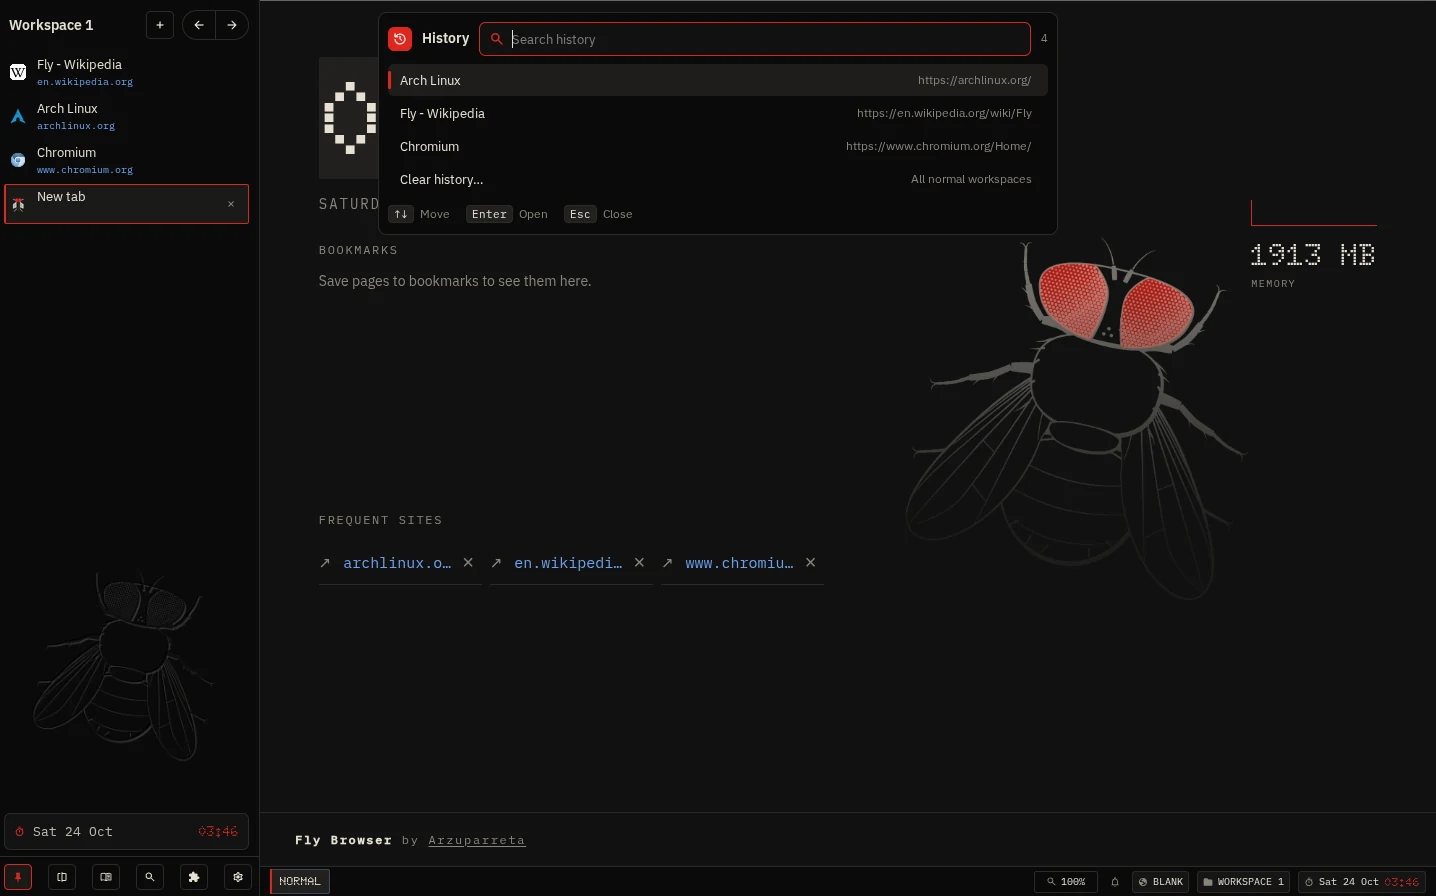
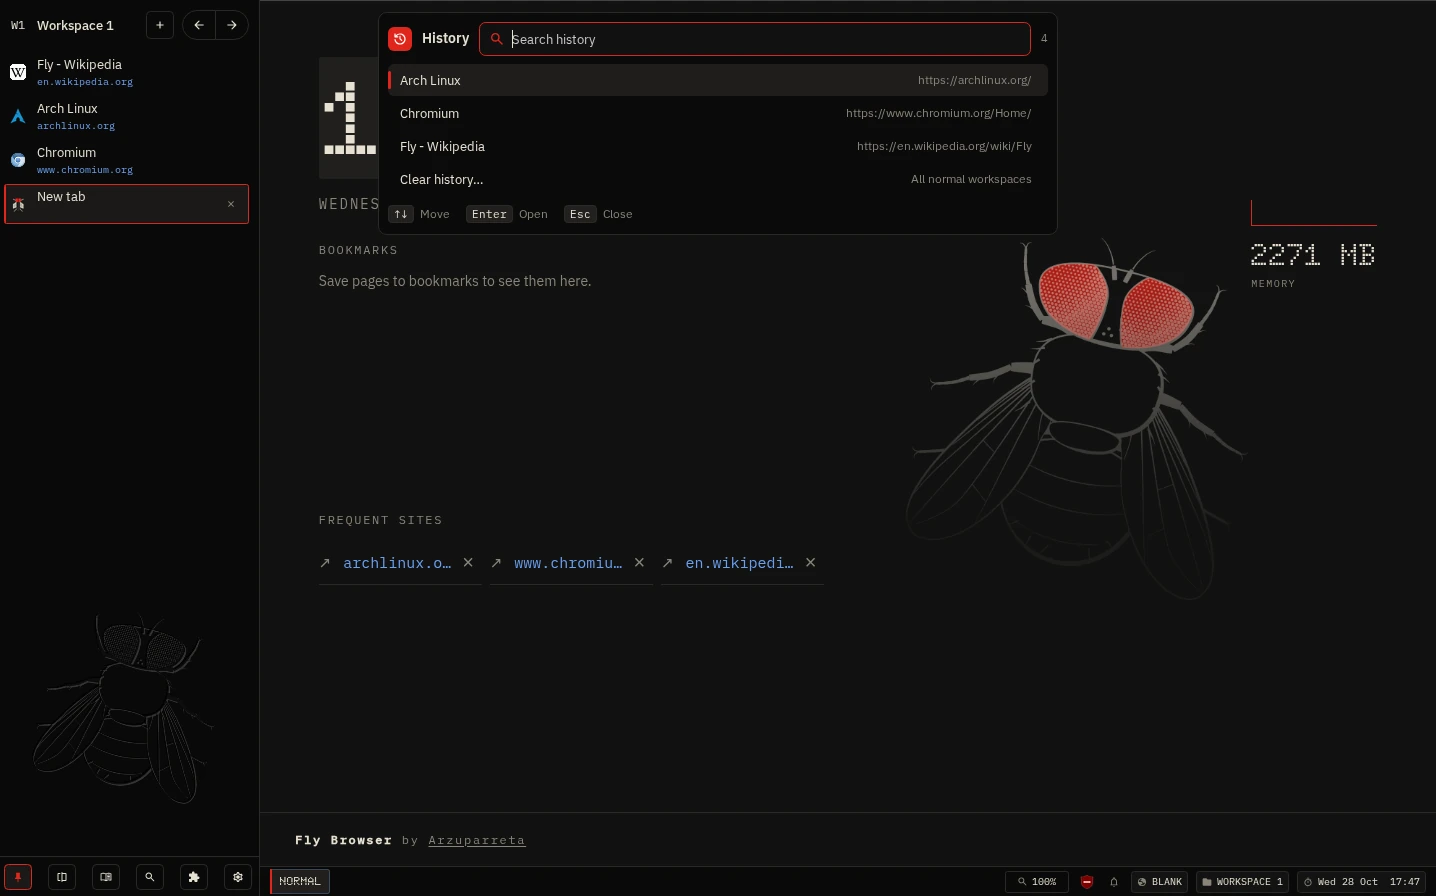
Align the sidebar workspace name with the tab titles and drop the aliases label (#187)
The expanded sidebar header started the workspace name at the favicon column
in a semibold 14 px face, so it lined up with nothing below it and read as a
bold tab title. The short badge now stays in the favicon column in both
states and the name starts on the tab titles' column in Plex Sans 13 medium.

Preferences > General > Search aliases no longer spends a label column on
"Your aliases": the group caption already names the list, which now takes the
full row width. Rows without a label give their control the whole width.

The documentation screenshots that show the sidebar or the aliases list are
retaken.

diff --git a/chromium/overlay/fly/ui/keyboard_editor.cc b/chromium/overlay/fly/ui/keyboard_editor.cc
@@ -840,22 +840,27 @@ views::View* KeyboardEditor::AddRow(std::u16string label,
   layout->set_cross_axis_alignment(
       views::BoxLayout::CrossAxisAlignment::kCenter);
   layout->set_minimum_cross_axis_size(S(kMenuControlHeight + 6));
-  auto* info = row->AddChildView(std::make_unique<views::View>());
-  auto* info_layout = info->SetLayoutManager(std::make_unique<views::BoxLayout>(
-      views::BoxLayout::Orientation::kVertical, gfx::Insets(), S(1)));
-  info_layout->set_cross_axis_alignment(
-      views::BoxLayout::CrossAxisAlignment::kStretch);
-  auto* name = info->AddChildView(Text(label));
-  name->SetElideBehavior(gfx::ELIDE_TAIL);
-  if (!description.empty()) {
-    auto* detail = info->AddChildView(
-        Text(description, kMenuSmallTextSize, FlyLabel::Tone::kDim));
-    detail->SetElideBehavior(gfx::ELIDE_TAIL);
-    detail->SetTooltipText(description);
+  // A row without a label gives its control the whole width.
+  views::View* info = nullptr;
+  if (!label.empty()) {
+    info = row->AddChildView(std::make_unique<views::View>());
+    auto* info_layout =
+        info->SetLayoutManager(std::make_unique<views::BoxLayout>(
+            views::BoxLayout::Orientation::kVertical, gfx::Insets(), S(1)));
+    info_layout->set_cross_axis_alignment(
+        views::BoxLayout::CrossAxisAlignment::kStretch);
+    auto* name = info->AddChildView(Text(label));
+    name->SetElideBehavior(gfx::ELIDE_TAIL);
+    if (!description.empty()) {
+      auto* detail = info->AddChildView(
+          Text(description, kMenuSmallTextSize, FlyLabel::Tone::kDim));
+      detail->SetElideBehavior(gfx::ELIDE_TAIL);
+      detail->SetTooltipText(description);
+    }
   }
   if (control) {
     auto* added = row->AddChildView(std::move(control));
-    if (wide) {
+    if (wide || !info) {
       layout->SetFlexForView(added, 1);
       // Text fields of a wide row take its spare width.
       if (auto* box = views::AsViewClass<views::View>(added);
@@ -869,16 +874,16 @@ views::View* KeyboardEditor::AddRow(std::u16string label,
     }
     // Unnamed controls take the row's name.
     auto& accessibility = added->GetViewAccessibility();
-    if (accessibility.GetCachedName().empty()) {
+    if (accessibility.GetCachedName().empty() && !label.empty()) {
       if (accessibility.GetCachedRole() == ax::mojom::Role::kNone ||
           accessibility.GetCachedRole() == ax::mojom::Role::kUnknown)
         accessibility.SetRole(ax::mojom::Role::kGroup);
       accessibility.SetName(label);
     }
-  } else {
+  } else if (info) {
     layout->SetFlexForView(info, 1);
   }
-  if (wide)
+  if (wide && info)
     info->SetPreferredSize(gfx::Size(S(150), info->GetPreferredSize().height()));
   rows_.push_back({building_pane_, base::ToLowerASCII(label), row});
   ++matches_per_pane_[building_pane_];
@@ -1027,9 +1032,12 @@ void KeyboardEditor::BuildAliases() {
         views::BoxLayout::Orientation::kVertical, gfx::Insets(), S(4)));
     layout->set_cross_axis_alignment(
         views::BoxLayout::CrossAxisAlignment::kStretch);
+    // The group's caption names the list, so the row has no label.
+    list->GetViewAccessibility().SetRole(ax::mojom::Role::kGroup);
+    list->GetViewAccessibility().SetName(u"Your aliases");
     auto* list_ptr = list.get();
-    if (AddRow(u"Your aliases", u"", u"alias shortcut keyword", std::move(list),
-               true))
+    if (AddRow(u"", u"", u"your aliases alias shortcut keyword",
+               std::move(list), true))
       aliases_box_ = list_ptr;
   }
   {
@@ -2140,7 +2148,7 @@ void KeyboardEditor::RefreshSearchSection() {
     aliases_box_->AddChildView(Text(
         !settings ? u"Search settings need recovery. Saved choices have been "
                     u"preserved."
-                  : u"None yet.",
+                  : u"No aliases of your own yet.",
         kMenuSmallTextSize, FlyLabel::Tone::kDim));
   } else {
     for (const auto& [key, alias] : settings->aliases) {

diff --git a/chromium/overlay/fly/ui/fly_window_controller.cc b/chromium/overlay/fly/ui/fly_window_controller.cc
@@ -493,8 +493,9 @@ void FlyWindowController::BuildSidebar() {
     window_control_buttons_.emplace(name, button);
   }
   parts.window_controls = window_controls_;
-  // The workspace header opens the dashboard; the short badge (rail) and the
-  // full name (expanded) share its slot and crossfade.
+  // The workspace header opens the dashboard. Its short badge stays in the
+  // favicon column in both states; the full name appears beside it, in the
+  // tab titles' column, when the sidebar expands.
   workspace_picker_button_ = sidebar->AddChildView(std::make_unique<FlyButton>(
       base::BindRepeating(&FlyWindowController::ToggleWorkspacePicker,
                           weak_factory_.GetWeakPtr()),
@@ -508,7 +509,7 @@ void FlyWindowController::BuildSidebar() {
   workspace_badge_->SetHorizontalAlignment(gfx::ALIGN_CENTER);
   workspace_badge_->SetCanProcessEventsWithinSubtree(false);
   workspace_label_ = sidebar->AddChildView(std::make_unique<FlyLabel>(
-      u"Workspace", FlyFace::kSans, 14, gfx::Font::Weight::SEMIBOLD));
+      u"Workspace", FlyFace::kSans, 13, gfx::Font::Weight::MEDIUM));
   workspace_label_->SetHorizontalAlignment(gfx::ALIGN_LEFT);
   workspace_label_->SetElideBehavior(gfx::ELIDE_TAIL);
   workspace_label_->SetCanProcessEventsWithinSubtree(false);
@@ -601,7 +602,7 @@ void FlyWindowController::BuildSidebar() {
         static_cast<views::View*>(preferences_button_.get())})
     sidebar->AddExpandedOnly(view);
   // The badge sits over the header and never takes its clicks.
-  sidebar->AddRailOnly(workspace_badge_, false);
+  DisableSubpixelText(workspace_badge_);
   sidebar->AddExpandedOnly(tab_sidebar_->expanded_surfaces(), false);
   sidebar->AddRailOnly(tab_sidebar_->rail_surfaces(), false);
   sidebar->AddRailOnly(tab_sidebar_->rail_marks(), false);

diff --git a/chromium/overlay/fly/ui/sidebar_panel.cc b/chromium/overlay/fly/ui/sidebar_panel.cc
@@ -178,8 +178,9 @@ void SidebarPanel::Layout(PassKey) {
     parts_.top.header->SetBounds(x, y, header, top);
   if (parts_.top.badge)
     parts_.top.badge->SetBounds(x, y + (top - s(28)) / 2, s(28), s(28));
+  // The name starts on the tab titles' column, past the badge.
   if (parts_.top.label)
-    parts_.top.label->SetBounds(x + s(5), y, header - s(10), top);
+    parts_.top.label->SetBounds(x + s(33), y, header - s(38), top);
   int nav_x = x + header + s(8);
   if (parts_.top.new_tab)
     parts_.top.new_tab->SetBounds(nav_x, y + (top - s(28)) / 2, s(28), s(28));
